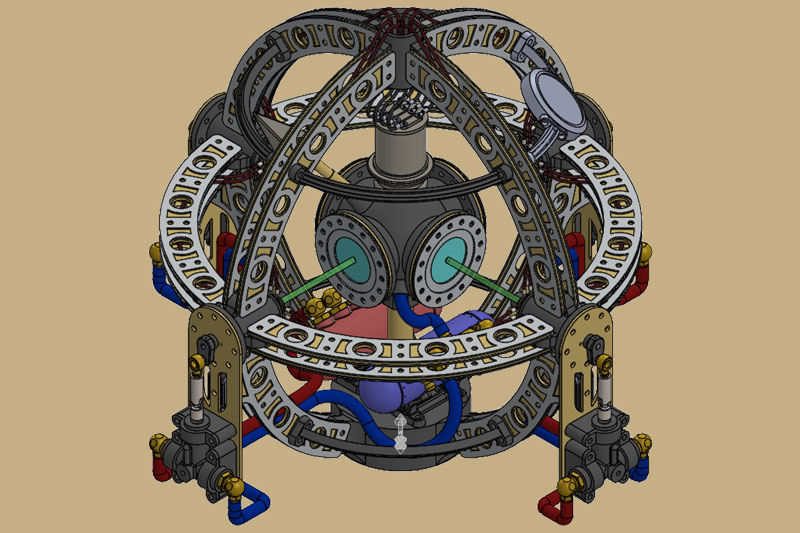
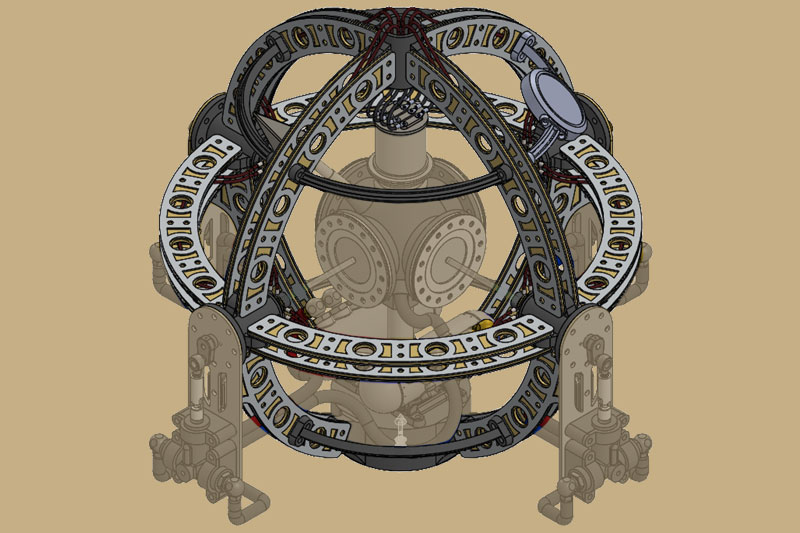
Update about and sphere
Add modvic and empire logos to main page and update sphere thumbnail

diff --git a/_pages/about.md b/_pages/about.md
@@ -45,3 +45,16 @@ Captain Okoli is an engineer, merchant, and innovator. Perpetually on a quest fo
     <td>Quantum Startup Foundry</td>
   </tr>
 </table>
+
+## __Contributors__
+
+<table cellpadding="10">
+  <tr>
+    <td><img src="assets/img/modvic_logo.png" alt="modvic" height="75"></td>
+    <td>“ModVic</td>
+  </tr>
+  <tr>
+    <td><img src="assets/img/empire_logo.png" alt="empire" height="75"></td>
+    <td>Empire Group</td>
+  </tr>
+</table>
